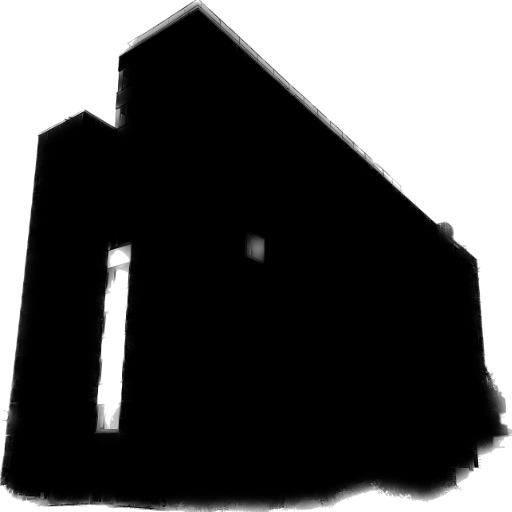
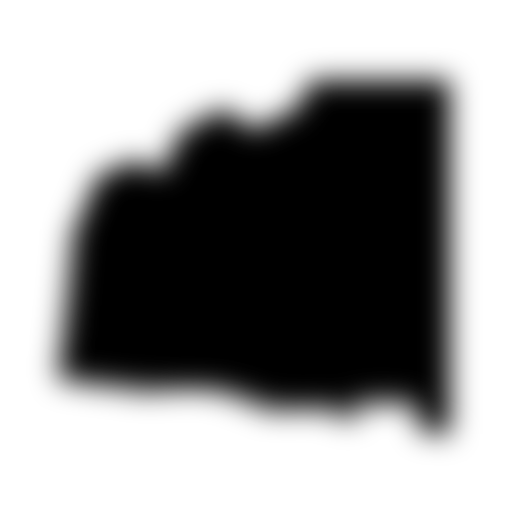
Add a blur effect to image masks, to allow for more free image generation

diff --git a/src/imageworker.py b/src/imageworker.py
@@ -1,4 +1,4 @@
-from PIL import Image
+from PIL import Image, ImageFilter
 
 ALPHA_TOLERANCE = 10
 
@@ -28,6 +28,7 @@ class ImageWorker():
                    color = (255, 255, 255, 255)
                 data[x, y] = color
                 
+        mask = mask.filter(ImageFilter.GaussianBlur(13))
         return mask
         
 if __name__ == "__main__":
